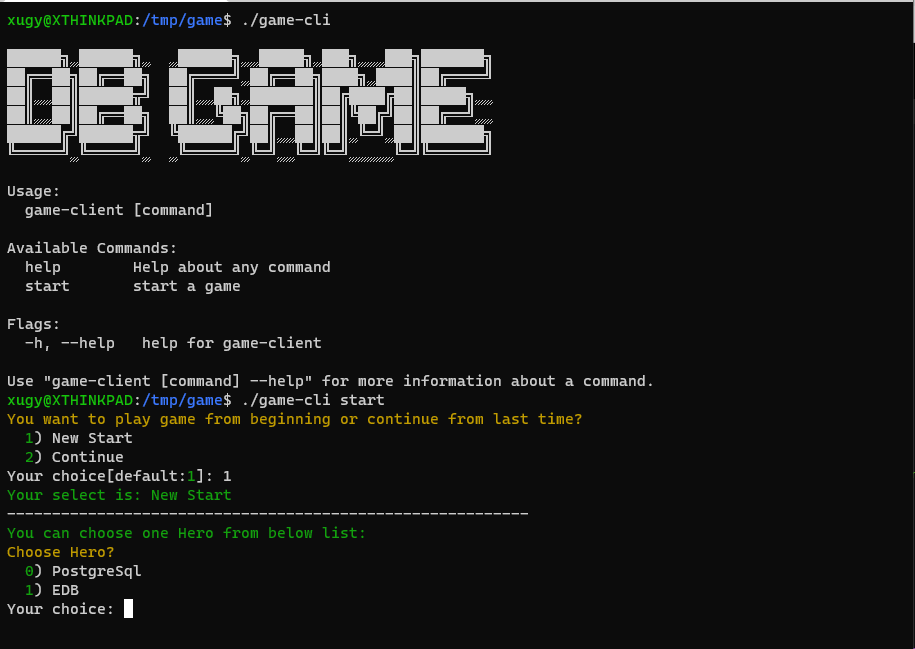
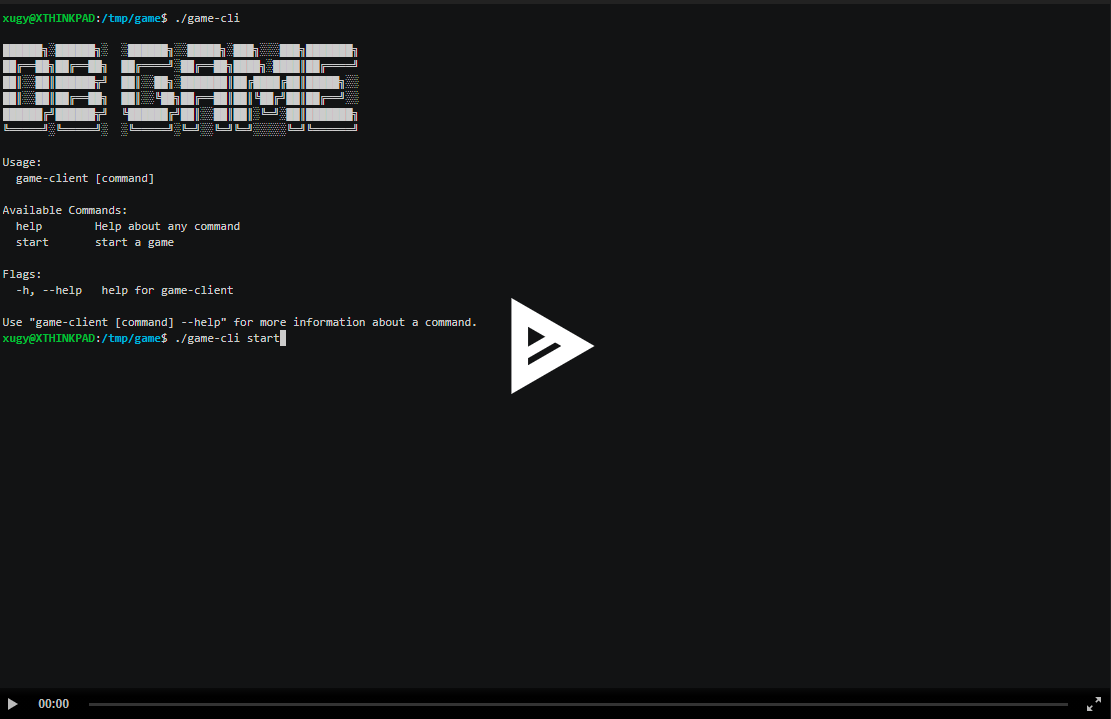
update game-cli-ui screenshot picture

diff --git a/README.md b/README.md
@@ -1,5 +1,3 @@
-[![License: MIT](https://img.shields.io/badge/License-MIT-yellow.svg)](https://opensource.org/licenses/MIT)
-
 ```
 
 ██████╗░██████╗░  ░██████╗░░█████╗░███╗░░░███╗███████╗
@@ -10,7 +8,8 @@
 ╚═════╝░╚═════╝░  ░╚═════╝░╚═╝░░╚═╝╚═╝░░░░░╚═╝╚══════╝
 ```
 
-# Adventure
+# Adventure  [![License: MIT](https://img.shields.io/badge/License-MIT-yellow.svg)](https://opensource.org/licenses/MIT)
+
 
 Adventure is a simple RPG online game to meet all your fantasy if you become the
 dominator of the code.
@@ -18,8 +17,16 @@ dominator of the code.
 ## Secret to Play
 
 There are 2 options to have fun:
-  - web UI
-  - CLI
+  - CLI - download from [here](https://github.com/new-adventure-aerolite/game_client/releases)
+  - Web UI - Temporary online server is at [here](https://rpg-game.eastus.cloudapp.azure.com/)
+
+### When your boss sits next to you
+
+Just pretend you are typing in your terminal. 
+
+Click the below figure for a recorded playback. 
+
+[![Game-CLI-UI](./docs/game-cli-ui.png)](https://asciinema.org/a/404126)
 
 ### When your boss is not in the office
 
@@ -29,25 +36,17 @@ Just play it in your web browser:
 ![The-Game-Web-UI](./docs/game-web-ui.png)
 
 The full stack code contains projects casacading from UI to container platform 
-creation and management (by Terraform). 
+creation and management (by [Terraform](https://www.terraform.io/) and [FluxCD](https://fluxcd.io/)). 
 
 ## Projects
 
 The children projects are:
-  - Web the `Frontend` UI: https://github.com/new-adventure-aerolite/game-frontend
-  - Game main the `App` server: https://github.com/new-adventure-aerolite/grpc-app-server
-  - Authentication the `Auth` server: https://github.com/new-adventure-aerolite/grpc-auth-server
-  - Engine the `Fight` server: https://github.com/new-adventure-aerolite/grpc-fight-server
-  - Game CLI Client: https://github.com/new-adventure-aerolite/game_client
-  - Infrastructure the `GitOps` repository: https://github.com/new-adventure-aerolite/adventure (this project itself)
-
-### When your boss sits next to you
-
-Just pretend you are typing in your terminal. 
-
-Click the below figure for a recorded playback. 
-
-[![Game-CLI-UI](./docs/game-cli-ui.png)](https://asciinema.org/a/404126)
+  - Web the `Frontend` UI: [game-frontend](https://github.com/new-adventure-aerolite/game-frontend)
+  - Game main the `App` server: [grpc-app-server](https://github.com/new-adventure-aerolite/grpc-app-server)
+  - Authentication the `Auth` server: [grpc-auth-server](https://github.com/new-adventure-aerolite/grpc-auth-server)
+  - Engine the `Fight` server: [grpc-auth-server](https://github.com/new-adventure-aerolite/grpc-fight-server)
+  - Game CLI Client: [game-cli](https://github.com/new-adventure-aerolite/game_client)
+  - Infrastructure the `GitOps` repository: [this repository](https://github.com/new-adventure-aerolite/adventure)
  
 ## Architecture 
 
@@ -59,6 +58,3 @@ The overall funny architecture is as the below figure illustrates:
 ## Questions
 
 Just create issues.
-
-## Licenses 
-
